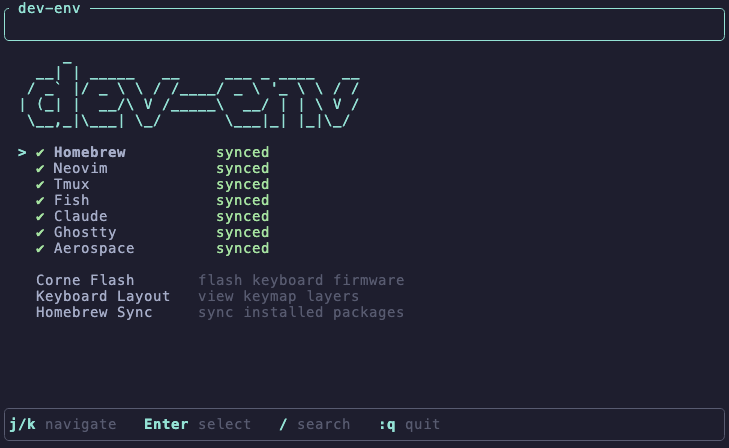
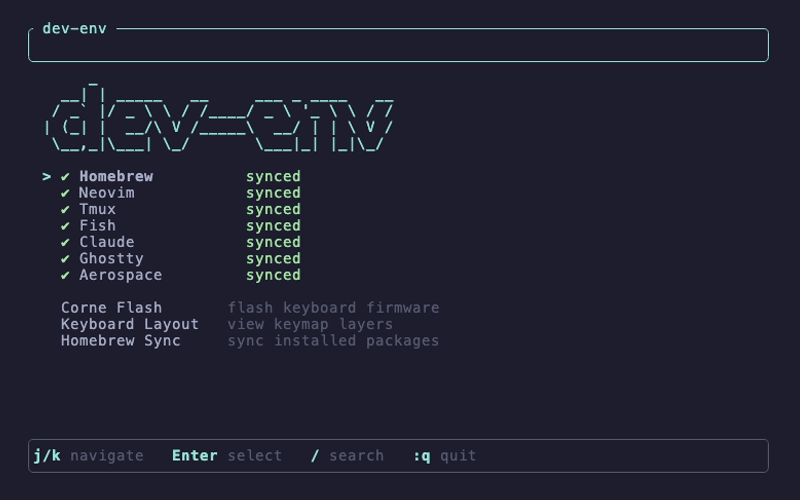
feat: docs

diff --git a/docs/index.md b/docs/index.md
@@ -13,7 +13,6 @@ cd ~/dev/dev-env
 The setup script will:
 1. Install missing Homebrew packages
 2. Symlink all configurations to your home directory
-3. Create backups of existing configs
 
 ## Documentation
 
@@ -23,19 +22,25 @@ The setup script will:
 - [Neovim](./neovim.md) - Editor setup, plugins, and keybindings
 - [Tmux](./tmux.md) - Terminal multiplexer configuration
 - [Ghostty](./ghostty.md) - Terminal emulator settings
+- [nice!view Custom Art](./nice-view-art.md) - Corne display customization
 
 ## Structure
 
 ```
 dev-env/
 ├── setup.sh              # Main orchestration script
+├── os                    # TUI launcher (builds + runs Rust binary)
+├── src/                  # Rust source for the os TUI (ratatui)
+├── Cargo.toml
 ├── homebrew/
-│   └── install.sh        # Homebrew package installer
+│   ├── install.sh        # Homebrew package installer
+│   └── sync.sh           # Syncs installed packages back to install.sh
 ├── fish/
 │   ├── setup.sh          # Symlinks fish config
 │   ├── config.fish       # Shell configuration
 │   ├── fish_plugins      # Plugin list
-│   └── fish_variables    # Shell variables
+│   ├── fish_variables    # Shell variables
+│   └── functions/        # Custom fish functions
 ├── neovim/
 │   ├── setup.sh          # Symlinks nvim config
 │   ├── init.lua          # Entry point
@@ -46,14 +51,25 @@ dev-env/
 │   └── snippets/         # Code snippets
 ├── tmux/
 │   ├── setup.sh          # Symlinks tmux config
-│   └── .tmux.conf        # Tmux configuration
+│   ├── .tmux.conf        # Tmux configuration
+│   └── tmux-cd.sh        # Tmux directory helper
 ├── ghostty/
-│   ├── setup.sh          # Symlinks ghostty config
+│   ├── setup.sh          # Symlinks ghostty config (manual)
 │   └── config            # Terminal settings
+├── aerospace/
+│   └── aerospace.toml    # Window manager config
+├── claude/
+│   ├── setup.sh          # Symlinks Claude Code config
+│   ├── CLAUDE.md         # Claude Code settings
+│   ├── commands/         # Custom slash commands
+│   └── skills/           # Superpowers skills
 ├── zsh/
+│   ├── setup.sh
 │   └── .zprofile         # Zsh fallback config
-└── claude/
-    └── CLAUDE.md         # Claude Code settings
+├── config/               # ZMK Corne keyboard config
+├── keyboard/             # Corne firmware, keymap, flash utility
+└── hooks/
+    └── pre-commit        # Regenerates keymap SVG + TUI screenshot
 ```
 
 ## Installed Tools
@@ -69,21 +85,29 @@ dev-env/
 | zoxide | Smart cd replacement |
 | lazygit | Terminal git UI |
 | go | Go programming language |
-| nvm | Node.js version manager |
+| fnm | Node.js version manager |
 | pnpm | Fast npm alternative |
+| biome | Linter/formatter |
+| duckdb | Analytical SQL engine |
+| fd | Fast file finder |
+| gh | GitHub CLI |
+| uv | Python package manager |
+| xh | HTTP client |
+
+Source of truth: [homebrew/install.sh](../homebrew/install.sh).
 
 ## Post-Install Steps
 
 After running `setup.sh`:
 
 1. Install Fish plugins: `fisher update`
-2. Install Node.js: `nvm install 20`
+2. Install Node.js: `fnm install 20`
 3. Set Fish as default shell: `chsh -s /opt/homebrew/bin/fish`
 4. Install Tmux plugins: Press `prefix + I` in tmux
 
 ## Manual Setup
 
-These tools are not automated:
-- [Ghostty terminal](https://ghostty.org)
+These tools are not automated by `setup.sh`:
+- Ghostty: run `./ghostty/setup.sh` to symlink the config
 - [Aerospace](https://github.com/nikitabobko/AeroSpace) window manager
 - [Homerow](https://www.homerow.app) keyboard navigation (cmd+shift+/)

diff --git a/README.md b/README.md
@@ -5,9 +5,7 @@
 ## Quick Start
 
 ```bash
-git clone <repo-url> ~/dev/dev-env
-cd ~/dev/dev-env
-./setup.sh
+./os
 ```
 
 ## What It Does
@@ -25,6 +23,9 @@ cd ~/dev/dev-env
 ```
 dev-env/
 ├── setup.sh                      # Main setup script
+├── os                            # TUI launcher (builds + runs Rust binary)
+├── src/                          # Rust source for the os TUI (ratatui)
+├── Cargo.toml
 ├── homebrew/
 │   ├── install.sh                # Installs missing formulae and casks
 │   └── sync.sh                   # Syncs installed packages back to install.sh
@@ -42,31 +43,35 @@ dev-env/
 │   ├── config.fish
 │   ├── fish_plugins
 │   ├── fish_variables
-│   ├── functions/
-│   └── themes/
+│   └── functions/
 ├── ghostty/
 │   ├── setup.sh                  # Symlinks ghostty config (run manually)
 │   └── config
+├── aerospace/
+│   └── aerospace.toml            # Aerospace window manager config
 ├── zsh/
 │   ├── setup.sh
 │   └── .zprofile
 ├── claude/
 │   ├── setup.sh                  # Symlinks Claude Code config
 │   ├── CLAUDE.md
-│   ├── .claude.json
 │   ├── commands/
 │   └── skills/
 ├── config/                       # ZMK Corne config (must live at repo root)
+│   ├── boards/                   # Custom board/shield definitions
 │   ├── corne.keymap
 │   ├── corne.conf
 │   └── west.yml
 ├── keyboard/
 │   ├── README.md                 # Corne firmware + keymap docs
 │   ├── build.yaml                # ZMK build matrix
+│   ├── corne-flash/              # Rust flash utility
 │   ├── draw.sh                   # Regenerates keymap.svg
 │   ├── keymap-drawer.config.yaml
 │   ├── keymap.svg
 │   └── old/                      # Archived Voyager/QMK source
+├── hooks/
+│   └── pre-commit                # Regenerates keymap SVG + TUI screenshot
 └── docs/                         # Per-tool documentation
 ```
 
@@ -74,16 +79,16 @@ See [docs/](./docs/index.md) for per-tool guides and [keyboard/README.md](./keyb
 
 ## Homebrew Packages
 
-**Formulae:** fish, fisher, fzf, go, lazygit, neovim, nvm, pnpm, ripgrep, tmux, zoxide, biome, duckdb, fd, fnm, gh, lua-language-server, tailwindcss-language-server, tree, uv, xh
+**Formulae:** fish, fisher, fzf, go, lazygit, neovim, nvm, pnpm, ripgrep, tmux, zoxide, biome, duckdb, fd, fnm, gh, lua-language-server, tailwindcss-language-server, tree, uv, xh, postgresql@16, prettierd, wget, xcodegen, ffmpeg, git-filter-repo, lftp, libpq, poppler
 
-**Casks:** claude-code
+**Casks:** claude-code, aerospace
 
 Source of truth: [homebrew/install.sh](./homebrew/install.sh).
 
 ## Post-Install
 
 - `fisher update` to install fish plugins
-- `nvm install <version>` to install Node.js
+- `fnm install <version>` to install Node.js
 - `chsh -s /opt/homebrew/bin/fish` to set fish as default shell
 
 ## Manual Setup

diff --git a/docs/fish.md b/docs/fish.md
@@ -7,7 +7,7 @@ Fish is the primary shell for this environment. It auto-starts tmux on login and
 - Auto-starts tmux in a session named "main"
 - Zoxide integration for smart directory navigation
 - FZF-powered project selection
-- Node.js version management via nvm
+- Node.js version management via fnm
 - pnpm package manager support
 
 ## Aliases
@@ -23,7 +23,9 @@ Fish is the primary shell for this environment. It auto-starts tmux on login and
 | `cd` | `z` (zoxide) | Smart directory navigation |
 | `scripts` | `cat package.json \| jq .scripts` | Show npm scripts |
 | `aws-login` | `aws sso login --sso-session my-sso` | AWS SSO login |
-| `cf` | `npx claude-flow@alpha` | Run Claude Flow |
+| `cf` | `sudo $HOME/.cargo/bin/corne-flash` | Flash Corne keyboard |
+| `os` | `$HOME/dev/dev-env/os` | Launch dev-env TUI |
+| `build-raw` | `xcodebuild -scheme ...` | Xcode release build |
 
 ## Functions
 
@@ -57,10 +59,8 @@ These allow vim-style quitting of tmux panes.
 Managed via Fisher. Listed in `fish_plugins`:
 
 - `jorgebucaran/fisher` - Plugin manager
-- `PatrickF1/fzf.fish` - FZF integration
-- `jomik/fish-gruvbox` - Gruvbox theme
-- `lf-icons` - File icons for lf
-- `jorgebucaran/nvm.fish` - Node version manager
+- `patrickf1/fzf.fish` - FZF integration
+- `joshmedeski/fish-lf-icons` - File icons for lf
 
 Install plugins:
 ```bash
@@ -71,9 +71,7 @@ fisher update
 
 | Variable | Value |
 |----------|-------|
-| `NVM_DIR` | `$HOME/.nvm` |
 | `PNPM_HOME` | `/Users/andy/Library/pnpm` |
-| `nvm_default_version` | `20` |
 
 ## Tmux Auto-Start
 

diff --git a/docs/installation.md b/docs/installation.md
@@ -19,17 +19,14 @@ cd ~/dev/dev-env
 ## What the Setup Script Does
 
 1. **Installs Homebrew packages** (`homebrew/install.sh`)
-   - Formulae: fish, fisher, neovim, tmux, fzf, ripgrep, zoxide, lazygit, go, nvm, pnpm
-   - Casks: claude-code
+   - Formulae: fish, fisher, fzf, go, lazygit, neovim, nvm, pnpm, ripgrep, tmux, zoxide, biome, duckdb, fd, fnm, gh, lua-language-server, tailwindcss-language-server, tree, uv, xh, postgresql@16, prettierd, wget, xcodegen, ffmpeg, git-filter-repo, lftp, libpq, poppler
+   - Casks: claude-code, aerospace
 
 2. **Symlinks configurations** (each tool's `setup.sh`)
    - `~/.config/nvim` -> `neovim/`
    - `~/.config/fish/config.fish` -> `fish/config.fish`
    - `~/.tmux.conf` -> `tmux/.tmux.conf`
-   - `~/.config/ghostty/config` -> `ghostty/config`
    - `~/.claude/CLAUDE.md` -> `claude/CLAUDE.md`
-
-3. **Creates backups** of existing configs in `backups/`
 
 ## Post-Install Steps
 
@@ -49,7 +46,7 @@ fisher update
 ### 3. Install Node.js
 
 ```bash
-nvm install 20
+fnm install 20
 ```
 
 ### 4. Install Tmux Plugin Manager
@@ -90,7 +87,7 @@ Install: gopls, lua_ls, prettierd
 ### Ghostty Terminal
 
 1. Download from [ghostty.org](https://ghostty.org)
-2. The config is already symlinked by setup.sh
+2. Run `./ghostty/setup.sh` to symlink the config
 
 ### Aerospace Window Manager
 

diff --git a/docs/ghostty.md b/docs/ghostty.md
@@ -10,8 +10,7 @@ Ghostty is a fast, GPU-accelerated terminal emulator.
 | Shell integration | Fish |
 | Font | Menlo Bold |
 | Font size | 18 |
-| Background opacity | 0.9 (90%) |
-| Theme | Catppuccin Mocha |
+| Theme | Tokyo Night Moon |
 
 ## Installation
 
@@ -25,15 +24,7 @@ Setup script symlinks it to `~/.config/ghostty/config`.
 
 ## Theme
 
-Uses [Catppuccin Mocha](https://github.com/catppuccin/ghostty), a warm dark theme that matches the Neovim color scheme.
-
-To install the theme manually:
-1. Visit [catppuccin/ghostty](https://github.com/catppuccin/ghostty)
-2. Follow installation instructions
-
-## Transparency
-
-Background opacity is set to 0.9, providing slight transparency. This works well with the transparent Catppuccin theme in Neovim.
+Uses [Tokyo Night Moon](https://github.com/folke/tokyonight.nvim), a clean dark theme.
 
 ## Font
 
